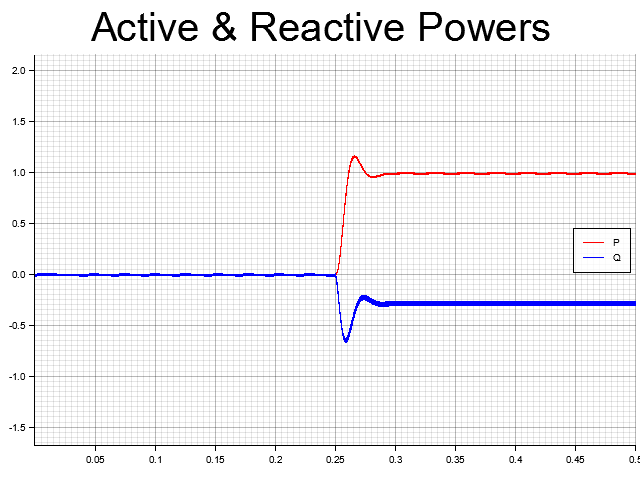
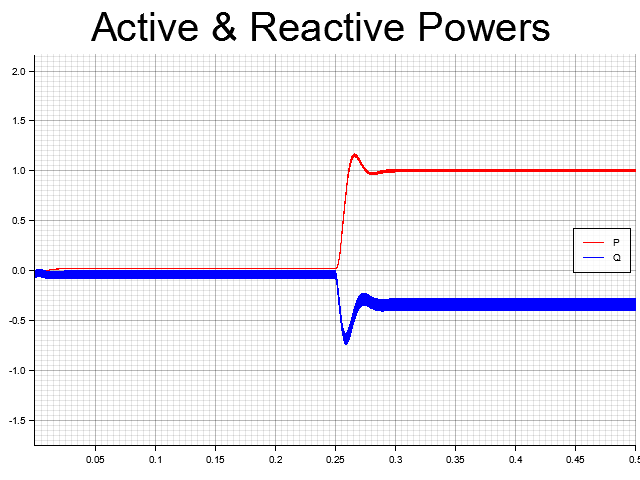
Update droop sim for per-unit

Changed region(s): [[0.0, 0.0938, 1.0, 0.7188], [0.0, 0.75, 1.0, 0.9375]]

diff --git a/src/bin/droop_sim.rs b/src/bin/droop_sim.rs
@@ -8,8 +8,9 @@ use unifi_gfm::droop::*;
 use unifi_gfm::refs::*;
 use unifi_gfm::sims::*;
 use unifi_gfm::constants::*;
-use fixed::types::I16F16 as Fxd;
 use fixed::traits::FromFixed;
+type FxdSim = fixed::types::I32F32;
+type FxdNum = fixed::types::I32F32; // TODO: Test with 32-bit fixed-point number and figure out what is overflowing (Seems to be related to current dynamics)
 
 const VOLTAGE_FILE_NAME: &'static str = "images/droop_sim_voltage.png";
 const THETA_FILE_NAME: &'static str = "images/droop_sim_thetas.png";
@@ -18,25 +19,28 @@ const CURRENT_OUT_FILE_NAME: &'static str = "images/droop_sim_currents.png";
 const DELTA_OUT_FILE_NAME: &'static str = "images/droop_sim_deltas.png";
 
 fn main() -> Result<(), Box<dyn std::error::Error>> {
+    env::set_var("RUST_BACKTRACE", "1");  // Enable backtrace for identifying overflow errors 
     /* 
     DEFINE SYSTEM PARAMETERS & CONSTRUCT OBJECTS
     */
     let v_nom: f32 = 80.;
     let f_nom: f32 = 60.;
-    let s_rated: f32 = 500.;
+    // let pi: f32 = PI.lossy_into();
+    // let w_nom: f32 = f_nom * 2.*pi;
+    let s_rated: f32 = 1000.;
+    let z_base = 3. * v_nom * v_nom / s_rated;
     let dt: f32 = 1.0e-4_f32;
-    let mp: f32 = 0.0026;
-    let mq: f32 = 0.005;
-    let f_c: f32 = 30.;
-    let pi: f32 = PI.lossy_into();
-    let mut inv = build_droop_controller_from_flt(v_nom, f_nom, s_rated, mp, mq, f_c);
-    inv.x[(1)] = Fxd::from_num(dt * 0.53) * inv.w_nom;  // Initialize inverter angle leading the grid angle by ~half a cycle to start closer to the digital equalibria
-    inv.x[(0)] = Fxd::from_num(v_nom * 0.999965);  // Initialize inverter voltage slightly lower than nominal to start closer to the digital equalibria
+    let mp: f32 = 0.0026; // / w_nom;  // Does this coefficient need to be per-unitized?
+    let mq: f32 = 0.005; // / v_nom;   // Does this coefficient need to be per-unitized?
+    let f_c: f32 = 30.;  // Does this filter frequency need to be per-unitized?
+    let mut inv = build_droop_controller_from_flt(v_nom, f_nom, mp, mq, f_c);
+    inv.x[(1)] = FxdNum::from_num(dt * 0.53);  // Initialize inverter angle leading the grid angle by ~half a cycle to start closer to the digital equalibria
+    inv.x[(0)] = FxdNum::from_num(0.999965);  // Initialize inverter voltage slightly lower than nominal to start closer to the digital equalibria
 
     let rf = 0.8;
     let lf = 1.5e-3;
-    let mut line: RLFilter<Fxd> = build_rl_line_from_flt(f_nom, rf, lf);
-    let mut bus: ACVoltSrc<Fxd> = build_ac_volt_src_from_flt(v_nom, f_nom);
+    let mut line: RLFilter<FxdSim> = build_rl_line_from_flt(f_nom, rf / z_base, lf / z_base);
+    let mut bus: ACVoltSrc<FxdSim> = build_ac_volt_src_from_flt(v_nom, f_nom);
 
     /*
     RUNNING DYNAMICAL SIMULATION
@@ -46,9 +50,9 @@ fn main() -> Result<(), Box<dyn std::error::Error>> {
     let cont_n_steps = 20;  // Number of steps taken for 'continuous' dynamics for each digital step
     let cont_dt = dt / (cont_n_steps as f32);
     let steps: Vec<u32> = (0..n_steps+1).collect();
-    let mut t: f32; let dt_: Fxd = Fxd::from_num(dt); let cont_dt_: Fxd = Fxd::from_num(cont_dt);
-    let mut p: Fxd = Fxd::from_fixed(ZERO); let mut q: Fxd = Fxd::from_fixed(ZERO);
-    let mut delta: f32; let mut i_alpha_sample: Fxd; let mut i_beta_sample: Fxd;
+    let mut t: f32; let dt_: FxdNum = FxdNum::from_num(dt); let cont_dt_: FxdSim = FxdSim::from_num(cont_dt);
+    let mut p: FxdSim = FxdSim::from_fixed(ZERO); let mut q: FxdSim = FxdSim::from_fixed(ZERO);
+    let mut delta: f32; let mut i_alpha_sample: FxdNum; let mut i_beta_sample: FxdNum;
     let mut v_values: Vec<(f32, f32)> = vec![(0., 0.); (n_steps+1) as usize];
     let mut theta_values: Vec<(f32, f32)> = vec![(0., 0.); (n_steps+1) as usize];
     let mut vg_values: Vec<(f32, f32)> = vec![(0., 0.); (n_steps+1) as usize];
@@ -61,7 +65,7 @@ fn main() -> Result<(), Box<dyn std::error::Error>> {
     for step in steps {
         t = step as f32 * dt;
         if t > (t_end / 2.) {
-            inv.set_p_ref(Fxd::from_num(100.0));
+            inv.set_p_ref(FxdNum::from_num(1.0));
         }
 
         // Collect voltage values
@@ -71,29 +75,29 @@ fn main() -> Result<(), Box<dyn std::error::Error>> {
         thetag_values[step as usize] = (t, bus.x[(1)].lossy_into());
         ia_values[step as usize] = (t, line.x[(0)].lossy_into());
         ib_values[step as usize] = (t, line.x[(1)].lossy_into());
-        delta = (inv.x[(1)] - bus.x[(1)]).lossy_into();
-        if delta > pi {
-            delta = -2.*pi + delta;
-        } else if delta < -pi {
-            delta = 2.*pi + delta;
+        delta = (inv.x[(1)] - FxdNum::from_fixed(bus.x[(1)])).lossy_into();
+        if delta > (1. / f_nom) {
+            delta = -(1. / f_nom) + delta;
+        } else if delta < -(1. / f_nom - 1.0e-4) {
+            delta = (1. / f_nom) + delta;
         }
         delta_values[step as usize] = (t, delta);
 
         // Sample the current
-        i_alpha_sample = line.x[(0)];
-        i_beta_sample = line.x[(1)];
+        i_alpha_sample = FxdNum::from_fixed(line.x[(0)]);
+        i_beta_sample = FxdNum::from_fixed(line.x[(1)]);
 
         // Step the system
         for n in 0..cont_n_steps {
             // Calculate power
-            let v = AlphaBeta::from_polar(inv.x[(0)], inv.x[(1)]);
-            let i = AlphaBeta::<Fxd>::from_ab_(line.x[(0)], line.x[(1)]);
+            let v = AlphaBeta::from_polar(FxdSim::from_fixed(inv.x[(0)]), FxdSim::from_fixed(inv.x[(1)] * inv.w_nom));
+            let i = AlphaBeta::<FxdSim>::from_ab_(line.x[(0)], line.x[(1)]);
             (p, q) = calc_ab_power(v, i);
             p_values[(cont_n_steps*step + n) as usize] = (t + (n as f32)*cont_dt, p.lossy_into());
             q_values[(cont_n_steps*step + n) as usize] = (t + (n as f32)*cont_dt, q.lossy_into());
             bus.step_(cont_dt_);
-            line.step(cont_dt_, [inv.x[(0)], inv.x[(1)], 
-                                  bus.x[(0)], bus.x[(1)]]);
+            line.step(cont_dt_, [FxdSim::from_fixed(inv.x[(0)]), FxdSim::from_fixed(inv.x[(1)] * inv.w_nom), 
+                                  bus.x[(0)], bus.x[(1)] * bus.w_nom]);
         }
 
         // Step the controller after a z^-1 delay

diff --git a/src/main.rs b/src/main.rs
@@ -9,7 +9,7 @@ use unifi_gfm::refs::*;
 use unifi_gfm::sims::*;
 use unifi_gfm::constants::*;
 use fixed::traits::FromFixed;
-type FxdSim = fixed::types::I32F32;
+type FxdSim = fixed::types::I38F26;
 type FxdNum = fixed::types::I38F26; // TODO: Test with 32-bit fixed-point number and figure out what is overflowing (Seems to be related to current dynamics)
 // TODO: Test how fast this runs with the package having a single fixed-point value selected (No / fewer conversions to fixed). 
 // Currently running this sim with I32F32 values takes ~20s
@@ -32,7 +32,7 @@ fn main() -> Result<(), Box<dyn std::error::Error>> {
     let f_nom: f32 = 60.;
     let f_nom: f32 = f_nom;
     let s_rated: f32 = 1000.;
-    let dt: f32 = 1.0e-4_f32;
+    let dt: f32 = 2.0e-4_f32;
     let xi: f32 = 15.;
     let c: f32 = 0.2679;
     let _pi: f32 = PI.lossy_into();
